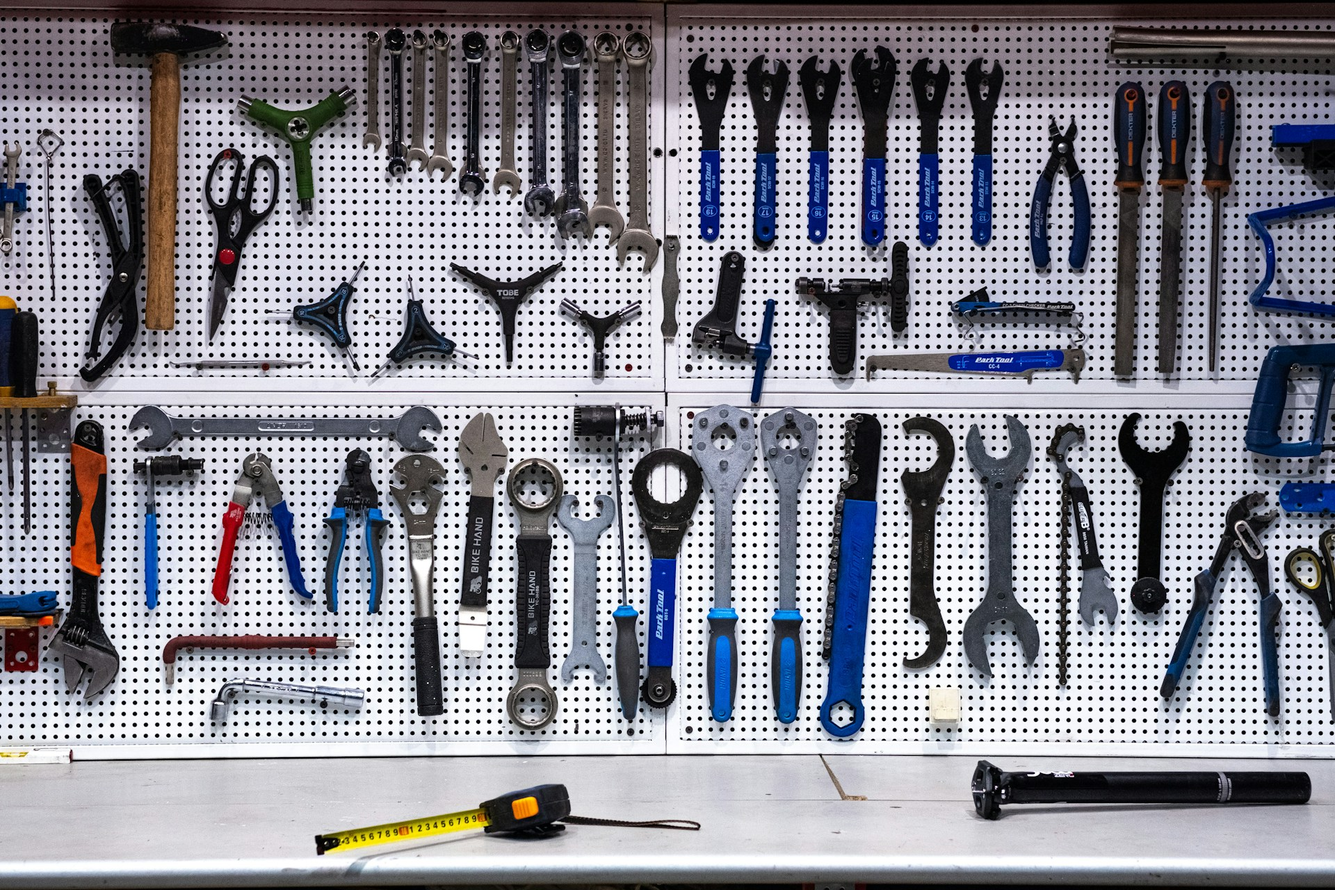
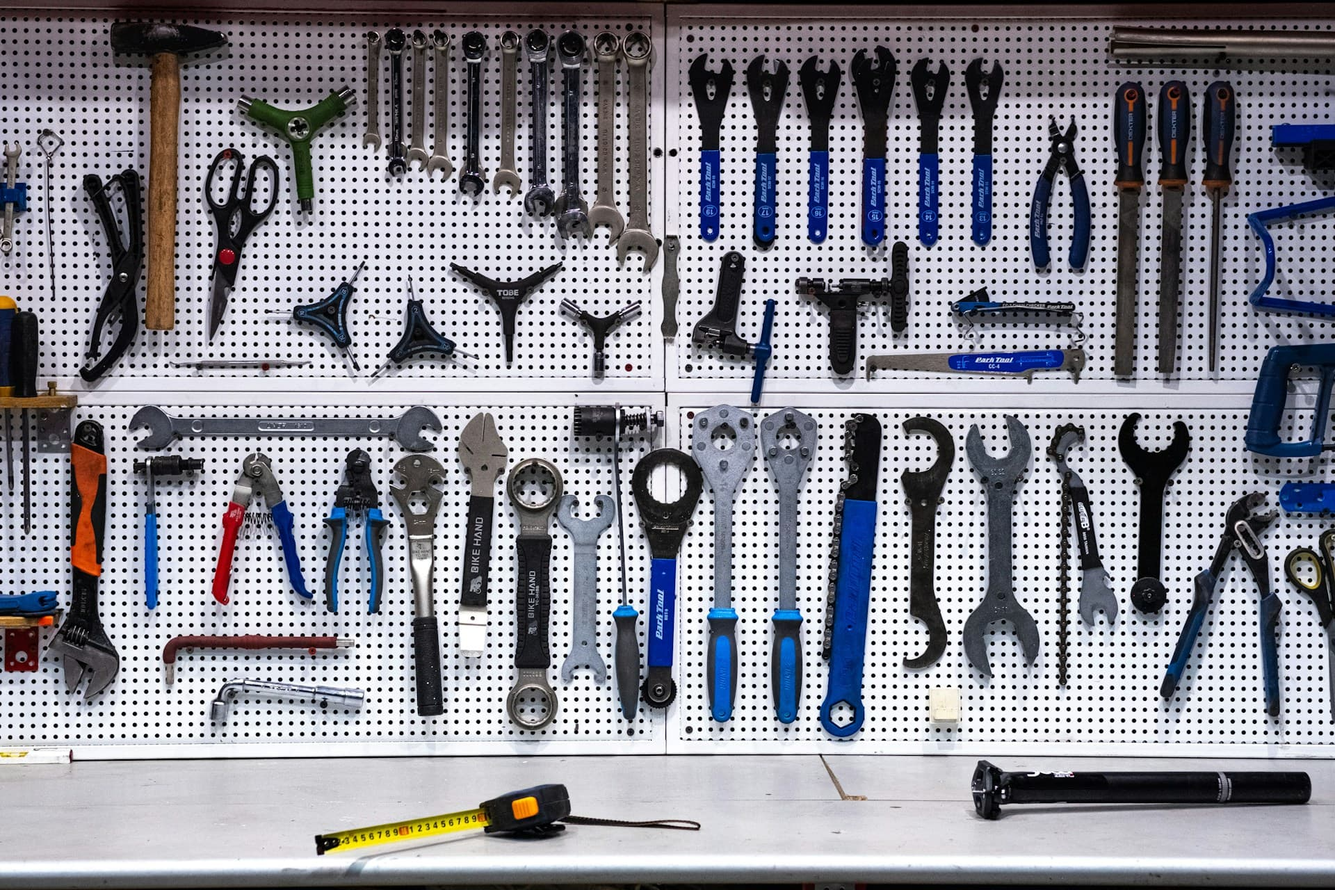
Optimizacion de imagenes y ajustes finales en los HTML

diff --git a/pages/servicios.html b/pages/servicios.html
@@ -3,8 +3,8 @@
 <head>
     <meta charset="UTF-8">
     <meta name="viewport" content="width=device-width, initial-scale=1.0">
-    <title>Alquiler de Maquinaria y Herramientas en Buenos Aires | Mr. Trompito</title>
-    <meta name="description" content="Conocé el catálogo de maquinaria y herramientas de Mr. Trompito. Alquiler de hormigoneras, andamios y equipos de construcción en Buenos Aires.">
+    <title>Catálogo de Maquinaria, Herramientas y Fletes | Mr. Trompito</title>
+    <meta name="description" content="Explorá nuestro catálogo de maquinaria y herramientas, y conocé los servicios de mudanzas y fletes de Mr. Trompito en Buenos Aires. Solicitá tu presupuesto.">
     <meta name="keywords" content="alquiler de maquinaria, alquiler de hormigoneras, alquiler de andamios, herramientas para construcción, equipos de construcción, Mr. Trompito, Buenos Aires">
     <link rel="preconnect" href="https://fonts.googleapis.com">
     <link rel="preconnect" href="https://fonts.gstatic.com" crossorigin>

diff --git a/pages/faq.html b/pages/faq.html
@@ -40,7 +40,7 @@
     </header>
 <main>
     <section>
-        <h1 class="animate__animated animate__fadeInDown"><span class="titulo-destacado">Preguntas Frecuentes</span>sobre Nuestros Servicios</h1>
+        <h1 class="animate__animated animate__fadeInDown"><span class="titulo-destacado">Preguntas Frecuentes</span> sobre Nuestros Servicios</h1>
         <p>Reunimos acá las dudas más comunes sobre el alquiler de maquinaria y el servicio de fletes.</p>
     </section>
     <section>
